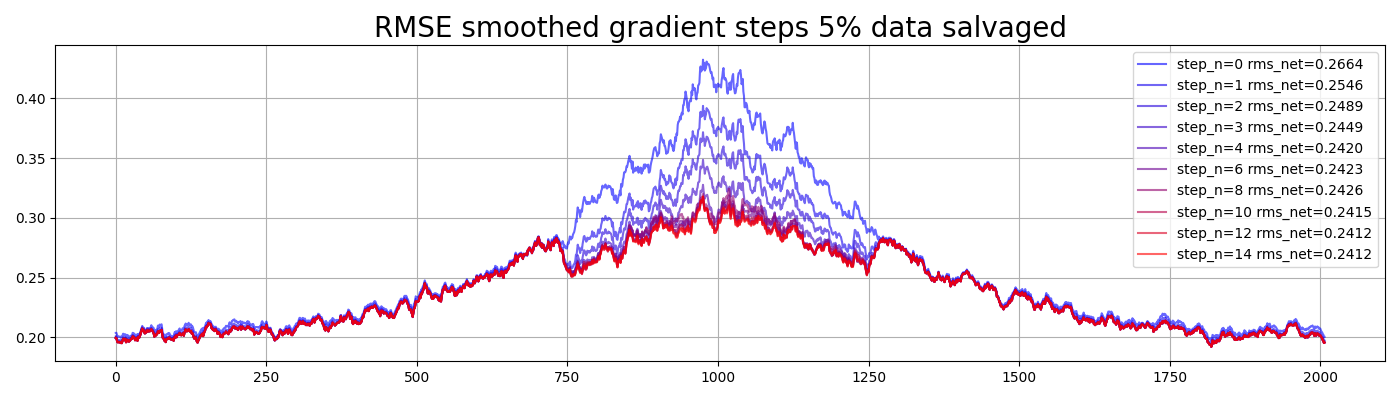
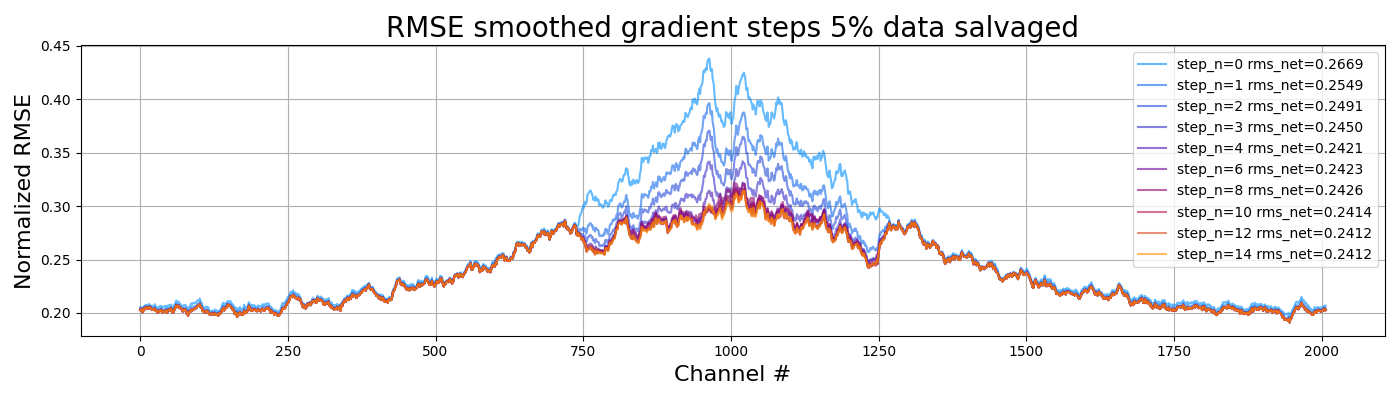
plots tidied

diff --git a/plots/rmse_wiener.py b/plots/rmse_wiener.py
@@ -78,22 +78,24 @@ rmse_wiener_avg = np.sqrt(np.mean(se_wiener_avg, axis=0))
 
 # Plots
 # Plot avg RMSE over one lblock sized chunk
-plt.subplots(figsize=(14,7))
-
-plt.subplot(211)
-plt.plot(rmse_virgin_avg[:20*lblock],label="no filter",color=colors[0])
-plt.plot(rmse_wiener_avg[:20*lblock],label="wiener filter",color=colors[1])
-plt.legend()
-plt.xlabel("Time, in number of samples")
-plt.title("RMSE")
-plt.grid(which="both")
-
-plt.subplot(212)
+#plt.subplots(figsize=(14,7))
+#
+#plt.subplot(211)
+#plt.plot(rmse_virgin_avg[:20*lblock],label="no filter",color=colors[0])
+#plt.plot(rmse_wiener_avg[:20*lblock],label="wiener filter",color=colors[1])
+#plt.legend()
+#plt.xlabel("Time, in number of samples")
+#plt.title("RMSE")
+#plt.grid(which="both")
+#
+#plt.subplot(212)
+plt.figure(figsize=(10,4))
 plt.semilogy(rmse_virgin_avg[:20*lblock],label="no filter",color=colors[0])
 plt.semilogy(rmse_wiener_avg[:20*lblock],label="wiener filter",color=colors[1])
 plt.legend()
-plt.xlabel("Time, in number of samples")
-plt.title("RMSE Log scale")
+plt.xlabel("Channel #",fontsize=16)
+plt.ylabel("RMSE, signal to noise ratio",fontsize=16)
+plt.title("Normalized RMSE",fontsize=20)
 plt.grid(which="both")
 
 plt.tight_layout()
@@ -104,22 +106,24 @@ plt.show(block=True)
 
 
 # Plot estimated RMSE over one lblock sized chunk
-plt.subplots(figsize=(14,7))
-
-plt.subplot(211)
-plt.plot(rmse_virgin[:20*lblock], label="no filter",color=colors[0])
-plt.plot(rmse_wiener[:20*lblock], label="wiener filter",color=colors[1])
-plt.legend()
-plt.xlabel("Time, in number of samples")
-plt.title("RMSE")
-plt.grid(which="both")
-
-plt.subplot(212)
+#plt.subplots(figsize=(14,7))
+#
+#plt.subplot(211)
+#plt.plot(rmse_virgin[:20*lblock], label="no filter",color=colors[0])
+#plt.plot(rmse_wiener[:20*lblock], label="wiener filter",color=colors[1])
+#plt.legend()
+#plt.xlabel("Time, in number of samples")
+#plt.title("RMSE")
+#plt.grid(which="both")
+#
+#plt.subplot(212)
+plt.figure(figsize=(10,4))
 plt.semilogy(rmse_virgin[:20*lblock], label="no filter",color=colors[0])
 plt.semilogy(rmse_wiener[:20*lblock], label="wiener filter",color=colors[1])
 plt.legend()
-plt.xlabel("Time, in number of samples")
-plt.title("RMSE Log scale")
+plt.xlabel("Time, in # of samples",fontsize=16)
+plt.ylabel("RMSE, signal to noise ratio",fontsize=16)
+plt.title("RMSE over time",fontsize=20)
 plt.grid(which="both")
 
 plt.tight_layout()

diff --git a/plots/rmse_wiener_eigenspec.py b/plots/rmse_wiener_eigenspec.py
@@ -24,18 +24,21 @@ plt.subplot(121)
 # Set a cieling, divergence leads to ugly plot
 cieling = np.exp(3.0)
 rmse_no_filter[np.where(rmse_no_filter > cieling)] = cieling
-plt.imshow(np.log(rmse_no_filter.T), aspect="auto", cmap="rainbow")
-plt.title("No filter", fontsize=15)
+plt.imshow(np.log(rmse_no_filter.T), aspect="auto", cmap="Set2")
+plt.title("No filter", fontsize=16)
 plt.colorbar()
+plt.xlabel("Channel #",fontsize=14)
+plt.ylabel("RFFT Errors on channel",fontsize=14)
 
 plt.subplot(122)
 rmse_optimal.T[0,0] = cieling # Scale the colors hack
-plt.imshow(np.log(rmse_optimal.T), aspect="auto", cmap="rainbow")
-plt.title("Wiener filter, optimal threshold value set to {:.2f}".format(thresh_optimal),
-            fontsize=15)
+plt.imshow(np.log(rmse_optimal.T), aspect="auto", cmap="Set2")
+plt.title("Wiener filter, optimal threshold value phi={:.2f}".format(thresh_optimal),fontsize=16)
 plt.colorbar()
+plt.xlabel("Channel #",fontsize=14)
+plt.ylabel("RFFT Errors on channel",fontsize=14)
 
-plt.suptitle("Eigenspectrum log RMSE Sinc-Hanning", fontsize=24)
+plt.suptitle("Eigenspectrum log RMSE Sinc-Hanning", fontsize=22)
 plt.tight_layout()
 plt.savefig("img/rmse_wiener_eigenspec.png")
 plt.show(block=True)

diff --git a/conjugate_gradient.py b/conjugate_gradient.py
@@ -122,7 +122,7 @@ def conjugate_gradient_descent(B, u, x0=None, rmin=0.1, max_iter=20,
             rms_smoothed = mav(rms, 20)[20:-20] # Chop off spoiled values
             plt.plot(rms_smoothed, 
                     label="step_n={} rms_net={:.4f}".format(i, rms_net),
-                    color=(i/(max_iter-1), 0.0, 1.0-i/(max_iter-1), 0.6)
+                    color=(i/(max_iter-1), (1.5*i/(max_iter-1)-0.75)**2, 1.0-i/(max_iter-1), 0.6)
                     )
 
         # If it passes below the threashold RMSE, break the loop
@@ -145,6 +145,8 @@ def conjugate_gradient_descent(B, u, x0=None, rmin=0.1, max_iter=20,
         plt.legend()
         plt.grid()
         plt.title(title, fontsize=20)
+        plt.xlabel("Channel #",fontsize=16)
+        plt.ylabel("Normalized RMSE",fontsize=16)
         plt.tight_layout()
         if saveas is not None:
             plt.savefig(saveas)

diff --git a/plots/rmse_calculated.py b/plots/rmse_calculated.py
@@ -22,12 +22,14 @@ plt.figure(figsize=(14,4))
 plt.semilogy(np.mean(1/abs(eigengrid**2),axis=1), ".", label="sinc",color=colors[0])
 plt.semilogy(np.mean(1/abs(eigengrid_hann**2),axis=1), ".", label="sinc hanning",color=colors[1])
 plt.semilogy(np.mean(1/abs(eigengrid_hamm**2),axis=1), ".", label="sinc hamming",color=colors[2])
-plt.title("Analytically Derived RMSE on one Chunk of Data", fontsize=20)
-plt.ylabel("Log R[n]")
-plt.xlabel("n")
+#plt.title("Analytically Derived RMSE on one Chunk of Data", fontsize=20)
+plt.title("Analytically Derived RMSE amplification per channel", fontsize=20)
+#plt.ylabel("Log R[n]")
+plt.ylabel("Gain on quantization noise",fontsize=16)
+plt.xlabel("Channel #",fontsize=16)
 plt.grid(which="both")
 plt.legend()
-
+plt.tight_layout()
 plt.savefig("img/RMSE_analytic_lblock.png")
 plt.show(block=True)
 

diff --git a/plots/rmse_conjugate_gradient_plots.py b/plots/rmse_conjugate_gradient_plots.py
@@ -154,8 +154,9 @@ plt.semilogy(rms_wiener[5:-5],label="rmse wiener filtered",color=colors[1])
 
 plt.grid(which="both") 
 plt.legend()
-plt.title("Log IPFB RMS residuals (smoothed)\nrmse virgin = {:.3f} rmse wiener = {:.3f}".format(rms_net_virgin,rms_net_wiener),fontsize=20) 
-plt.xlabel("Channel (n)",fontsize=13)
+#plt.title("Log IPFB RMS residuals (smoothed)\nrmse virgin = {:.3f} rmse wiener = {:.3f}".format(rms_net_virgin,rms_net_wiener),fontsize=20) 
+plt.title("IPFB Root Mean Squared residuals (smoothed)")
+#plt.xlabel("Channel #",fontsize=13)
 plt.ylabel("RMSE",fontsize=13)
 plt.tight_layout()
 plt.savefig("img/RMSE_log_virgin_IPFB_residuals_wiener.png")

diff --git a/plots/eigenvalues_ntap4_lblock2048.py b/plots/eigenvalues_ntap4_lblock2048.py
@@ -20,9 +20,10 @@ mat_eig = h.r_window_to_matrix_eig(sinc * np.hanning(ntap*lblock),
 
 # Plot the figure
 plt.figure(figsize=(8.5,7))
-plt.title("Eigenvalues ntap={} lblock={}".format(ntap,lblock),fontsize=22)
+#plt.title("Eigenvalues ntap={} lblock={}".format(ntap,lblock),fontsize=22)
 plt.imshow(np.abs(mat_eig.T), aspect='auto',cmap="BrBG") # colorblind cmap
-plt.xlabel("Channels", fontsize=16)
+plt.title("Eigenvalues",fontsize=20)
+plt.xlabel("Channel #", fontsize=16)
 plt.ylabel("FFT of zero padded sinc-hanning 'chunks'", fontsize=16)
 plt.colorbar()
 plt.tight_layout()

diff --git a/plots/four_segments_sinc_hanning.py b/plots/four_segments_sinc_hanning.py
@@ -62,7 +62,7 @@ plt.tick_params(
     bottom=False,      # ticks along the bottom edge are off
     top=False,         # ticks along the top edge are off
     labelbottom=False)
-plt.xlabel("Channel", fontsize=16)
+plt.xlabel("Channel #", fontsize=16)
 plt.ylabel("Sinc Hanning value", fontsize=16)
 plt.title("Four segments of Sinc Hanning",fontsize=22)
 plt.tight_layout()
